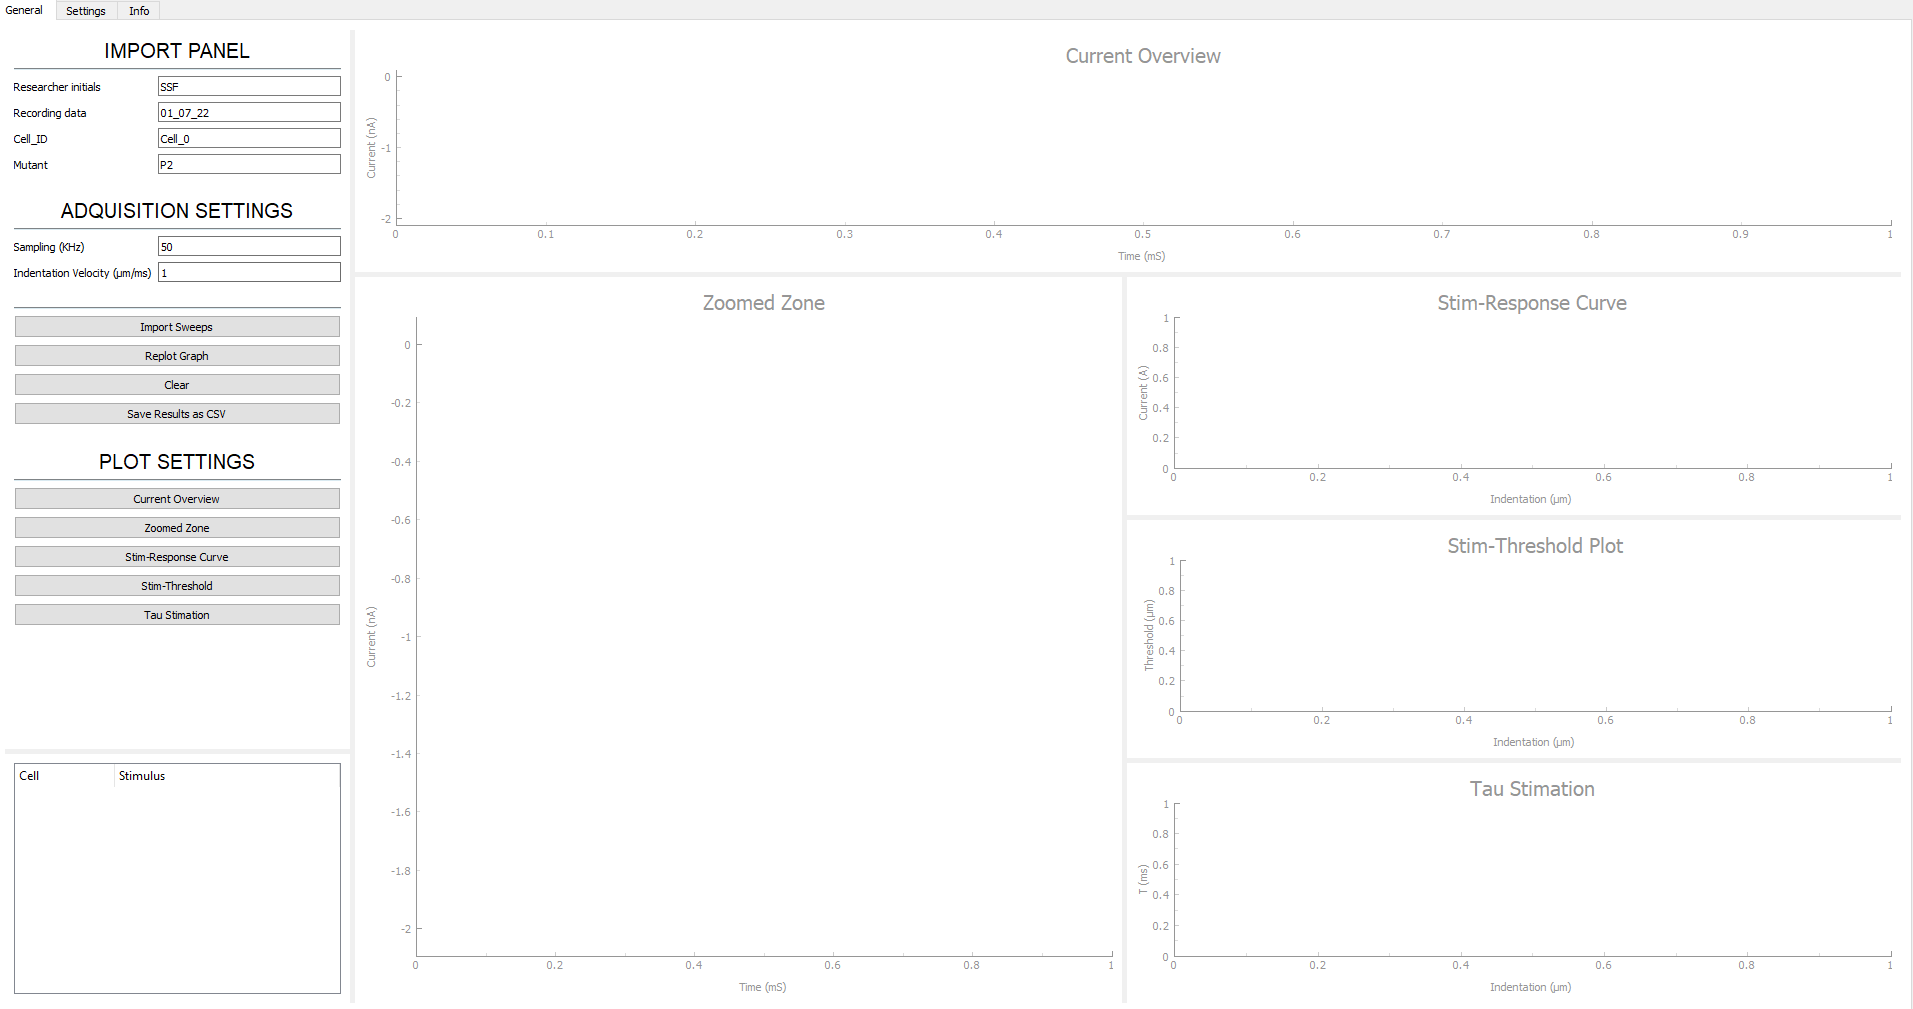
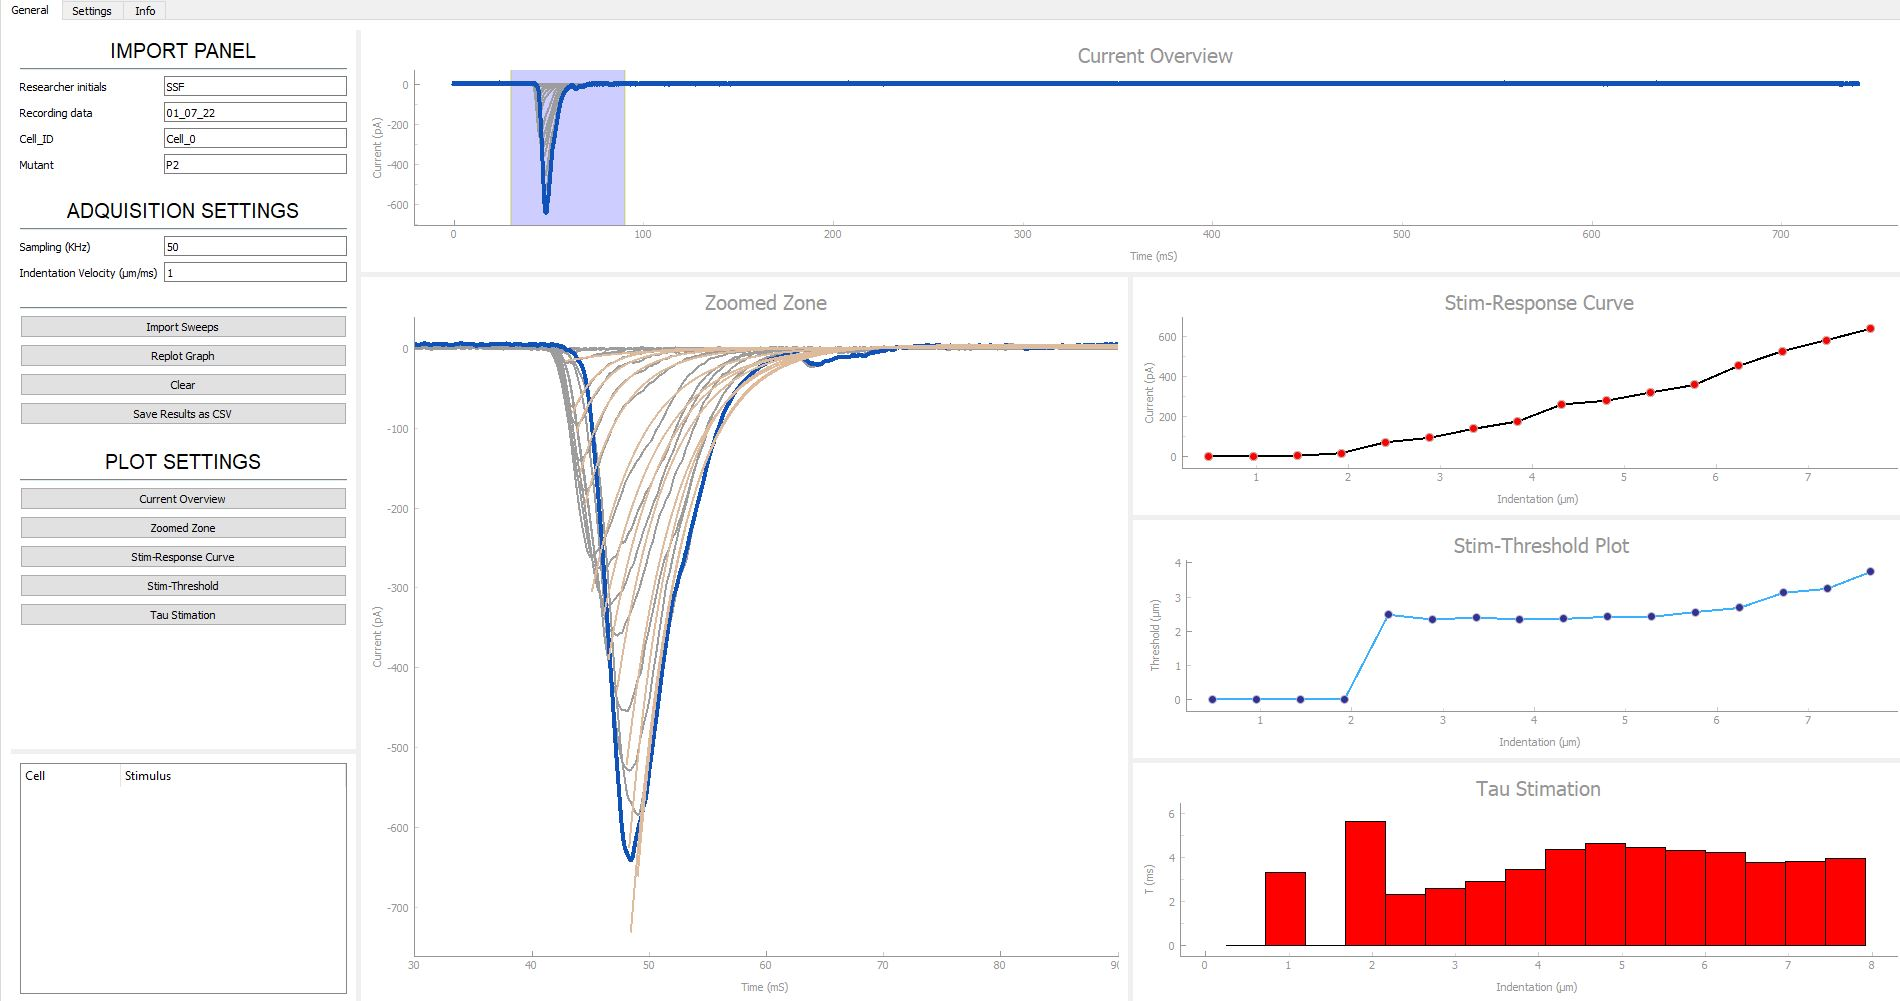
Eighth  Commit

diff --git a/Poking_Analysis.py b/Poking_Analysis.py
@@ -401,14 +401,14 @@ FS.setBackground((255,255,255))
 FS.setTitle('Current Overview', size='15pt')
 FS.setLabel('left',text='Current',units='A')
 FS.setLabel('bottom',text='Time',units='mS')
-FS.setYRange(-2E-9, 0)
+#FS.setYRange(-2E-9, 0)
 #Zommed Sweeps
 ZS=pg.PlotWidget()
 ZS.setBackground((255,255,255))
 ZS.setTitle('Zoomed Zone', size='15pt')
 ZS.setLabel('left',text='Current',units='A')
 ZS.setLabel('bottom',text='Time',units='mS')
-ZS.setYRange(-2E-9, 0)
+#ZS.setYRange(-2E-9, 0)
 #Stim-Response Curve
 SR=pg.PlotWidget()
 SR.setTitle('Stim-Response Curve', size='15pt')

diff --git a/README.md b/README.md
@@ -68,3 +68,4 @@ Analysis program based on Python3 for Electrophysiological experiments of Mechan
       5. Tau value in ms is calculated using the optimal b parameter returned by the curve fit function (Scipy). Multiplying the invers of the b value by the sampling ratio in KHz.
       6. The tau value is only considered if it is between 1 and 50 ms, and the rSquared of the fiting model is greater than 0.6.
 6. **RESULTS**
+   1. All the channel parameters estimated can be exported as separate CSV files.
